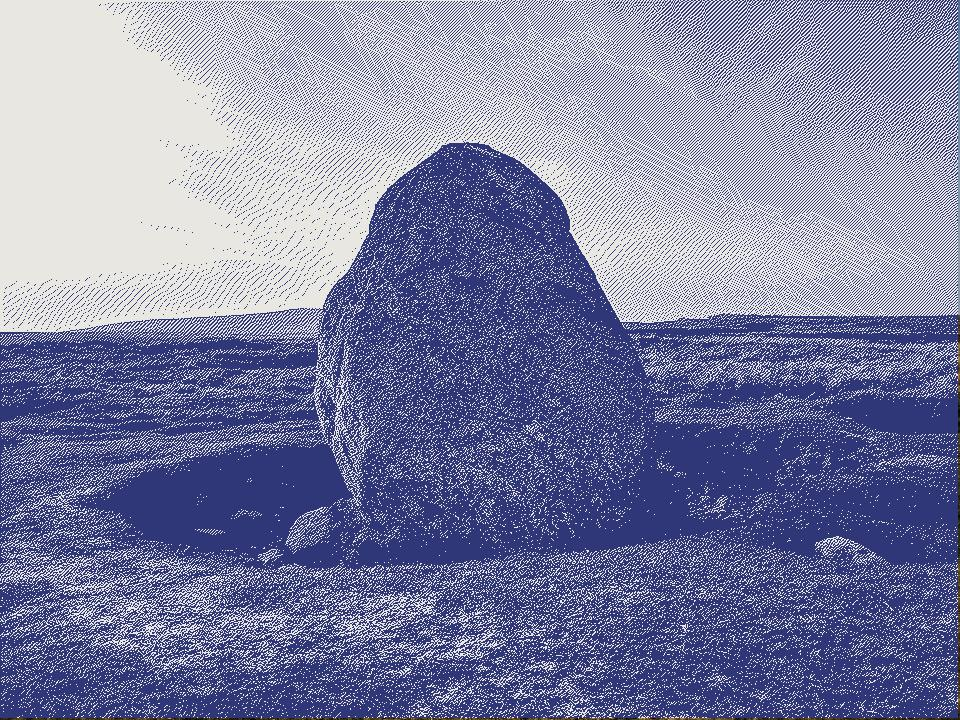
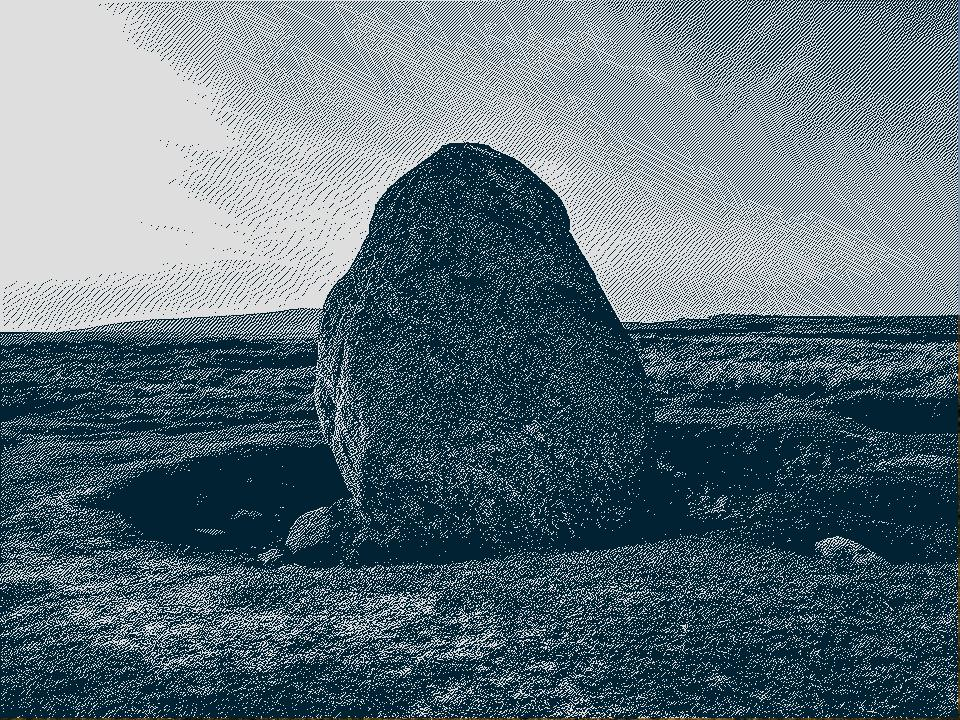
image colour overrides

diff --git a/test_site/posts/2019/12/20/index.html b/test_site/posts/2019/12/20/index.html
@@ -71,14 +71,14 @@
 </style>
 </head>
     <body style="background-color:#efefef">
-        <!--- -algorithm atkinson -threshold 128 -bg #efefef -->
+        <!--- -algorithm atkinson -threshold 128 -background #efefef -image_foreground #002233 -image_background #dedede -->
 
 <h1>HelloWorld</h1>
 <p>PyStatisk Test <a href="http://fisksolar.ddns.net/">Content</a></p>
 <p><img alt="sample image" src="p_sample.jpeg" /></p>
         <footer>
             <!-- Optional -->
-            Page size including images: 312kb
+            Page size including images: 325kb
         </footer>
     </body>
 </html>

diff --git a/statisk/PyStatisk.py b/statisk/PyStatisk.py
@@ -54,6 +54,15 @@ def process_images(directory, config_str):
                 threshold_value = 255
 
             if filter_name is not None:
+                # We have a filter - but do we have any foreground or background overrides?
+                image_foreground = get_value(config_str, '-image_foreground', False)
+                if image_foreground is not None:
+                    ImageFilter.foreground = tuple(int(image_foreground.lstrip('#')[i:i+2], 16) for i in (0, 2, 4))
+
+                image_background = get_value(config_str, '-image_background', False)
+                if image_background is not None:
+                    ImageFilter.background = tuple(int(image_background.lstrip('#')[i:i + 2], 16) for i in (0, 2, 4))
+
                 ImageFilter.filter_from_name(file, threshold_value, output_filename, filter_name)
             else:
                 # No filter name supplied in config header data so just resize to max width

diff --git a/README.md b/README.md
@@ -66,8 +66,8 @@ Markdown posts can set parameters to override how images are handled and to set 
 | --- | --- |
 | `-algorithm` | Sets dither algorithm (see below), eg. `-algorithm stucki` |
 | `-threshold` | Set threshold of dither algorithms in range 0 to 255, eg. `-threshold  255` |
-| `-image_foreground` | (__todo__) Set the foreground colour for dithered images, eg. `-image_foreground  #0e0e0e` |
-| `-image_background` | (__todo__) Set the background colour for dithered images, eg. `-image_background  #ffcdcd` |
+| `-image_foreground` | Set the foreground colour of dithered images, eg. `-image_foreground  #002233` |
+| `-image_background` | Set the background colour of dithered images, eg. `-image_background  #ffcdcd` |
 | `-background` | Override the page background colour, eg. `-background  #efefef` |
 
 ### Dithering

diff --git a/test_site/posts/2019/12/20/index.md b/test_site/posts/2019/12/20/index.md
@@ -1,4 +1,4 @@
-<!--- -algorithm atkinson -threshold 128 -bg #efefef -->
+<!--- -algorithm atkinson -threshold 128 -background #efefef -image_foreground #002233 -image_background #dedede -->
 # HelloWorld
 
 PyStatisk Test [Content](http://fisksolar.ddns.net/)
